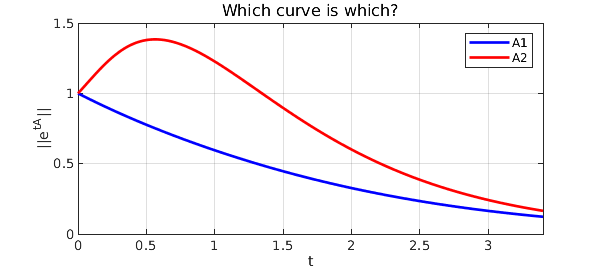
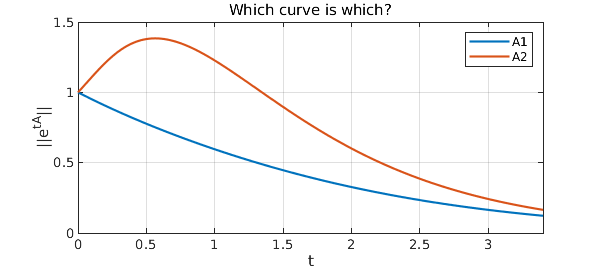
update to NonnormalQuiz

diff --git a/examples/linalg/NonnormalQuiz.html b/examples/linalg/NonnormalQuiz.html
@@ -77,12 +77,11 @@ A2 =
 <p>We first present the plot, then explain what it means and how we computed it with Chebfun.</p>
 <pre class="mcode-input">e1 = chebfun(@(t) norm(expm(t*A1)),[0 3.4]);
 e2 = chebfun(@(t) norm(expm(t*A2)),[0 3.4]);
-LW = 'linewidth'; FS = 'fontsize';
-plot(e1,'b',e2,'r',LW,2)
+plot([e1 e2])
 ylim([0 1.5]), grid on, legend('A1','A2')
-xlabel('t',FS,14)
-ylabel('||e^{tA}||',FS,14)
-title('Which curve is which?',FS,16)</pre>
+xlabel('t')
+ylabel('||e^{tA}||')
+title('Which curve is which?')</pre>
 
 <p><img src="img/NonnormalQuiz_01.png" class="figure" alt=""></p>
 <p>The plot shows two curves, one with a hump and one without. The book asks, "Which curve is which?", and doesn't reveal the answer, but here you can see that <code>A2</code> is the matrix with the hump.  This is surprising to some people, for one might expect the hump to correspond to <code>A1</code> since it is nondiagonalizable.  In fact, the nondiagonalizability of <code>A1</code> is less important than the large entry $5$ in the upper-right corner of <code>A2</code>.</p>

diff --git a/examples/linalg/img/NonnormalQuiz.html b/examples/linalg/img/NonnormalQuiz.html
@@ -20,12 +20,11 @@ We first present the plot, then explain what it means and how we computed it wit
 
 <pre class="mcode-input">e1 = chebfun(@(t) norm(expm(t*A1)),[0 3.4]);
 e2 = chebfun(@(t) norm(expm(t*A2)),[0 3.4]);
-LW = 'linewidth'; FS = 'fontsize';
-plot(e1,'b',e2,'r',LW,2)
+plot([e1 e2])
 ylim([0 1.5]), grid on, legend('A1','A2')
-xlabel('t',FS,14)
-ylabel('||e^{tA}||',FS,14)
-title('Which curve is which?',FS,16)</pre><img src="img/NonnormalQuiz_01.png" class="figure" alt="">
+xlabel('t')
+ylabel('||e^{tA}||')
+title('Which curve is which?')</pre><img src="img/NonnormalQuiz_01.png" class="figure" alt="">
 
 The plot shows two curves, one with a hump and one without. The book asks, "Which curve is which?", and doesn't reveal the answer, but here you can see that `A2` is the matrix with the hump.  This is surprising to some people, for one might expect the hump to correspond to `A1` since it is nondiagonalizable.  In fact, the nondiagonalizability of `A1` is less important than the large entry $5$ in the upper-right corner of `A2`.
 

diff --git a/index.html b/index.html
@@ -269,5 +269,5 @@ plot(minx(1),minx(2),'.w')
     <script type="text/javascript" src="/js/config.js"></script>
     <script type="text/javascript" src="/js/jquery.flexslider-min.js"></script>
   </body>
-<!-- Compiled on Sunday, 18 April 2021 at 08:47. -->
+<!-- Compiled on Sunday, 18 April 2021 at 08:53. -->
 </html>

diff --git a/examples/linalg/NonnormalQuiz.m b/examples/linalg/NonnormalQuiz.m
@@ -24,12 +24,11 @@ A1 = [-1 1; 0 -1],  A2 = [-1 5; 0 -2]
 % with Chebfun.
 e1 = chebfun(@(t) norm(expm(t*A1)),[0 3.4]);
 e2 = chebfun(@(t) norm(expm(t*A2)),[0 3.4]);
-LW = 'linewidth'; FS = 'fontsize';
-plot(e1,'b',e2,'r',LW,2)
+plot([e1 e2])
 ylim([0 1.5]), grid on, legend('A1','A2')
-xlabel('t',FS,14)
-ylabel('||e^{tA}||',FS,14)
-title('Which curve is which?',FS,16)
+xlabel('t')
+ylabel('||e^{tA}||')
+title('Which curve is which?')
 
 %%
 % The plot shows two curves, one with a hump and one without. The book asks,
